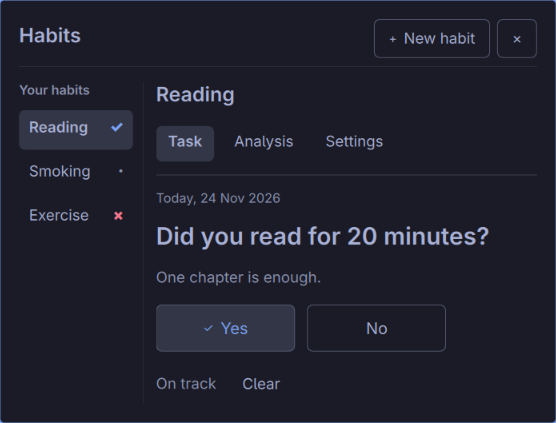
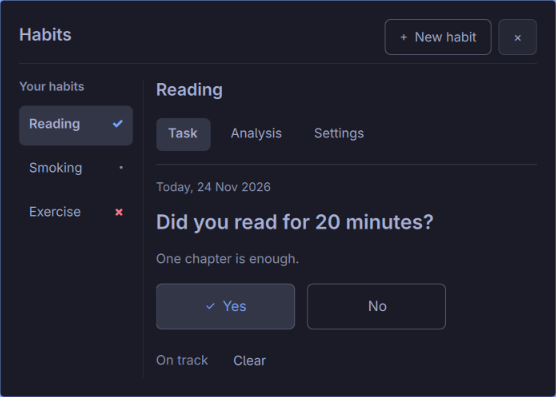
Reduce base popup text sizes

diff --git a/HabitPanel.qml b/HabitPanel.qml
@@ -52,11 +52,11 @@ Panel {
   // Keep the bar's monospace glyphs separate from the popup's prose and controls.
   readonly property string fontFamily: Qt.fontFamilies().indexOf("Adwaita Sans") >= 0 ? "Adwaita Sans" : "sans-serif"
   readonly property real typeScale: Math.max(1, Style.fontScale)
-  readonly property int secondarySize: typeSize(13)
-  readonly property int bodySize: typeSize(15)
-  readonly property int answerSize: typeSize(16)
-  readonly property int headingSize: typeSize(20)
-  readonly property int displaySize: typeSize(24)
+  readonly property int secondarySize: typeSize(12)
+  readonly property int bodySize: typeSize(13)
+  readonly property int answerSize: typeSize(14)
+  readonly property int headingSize: typeSize(17)
+  readonly property int displaySize: typeSize(20)
   readonly property var locale: Qt.locale(Commons.I18n.formatLocale)
 
   Commons.Translations {

diff --git a/docs/release.md b/docs/release.md
@@ -1,4 +1,8 @@
-# 1.3.2 — Compact typography
+# 1.3.3 — Smaller type
+
+Base text sizes are now 12 px for secondary labels, 13 px for body and navigation, 14 px for Yes/No, 17 px for headings, and 20 px for the question and key numbers. The typeface, popup width, and Yes/No hit areas are unchanged.
+
+## 1.3.2 — Compact typography
 
 The popup uses Adwaita Sans when installed, with a system sans-serif fallback. A shared scale covers 13 px supporting text, 15 px body and navigation, 16 px Yes/No, 20 px headings, and 24 px questions and key numbers. These are logical pixels and grow with larger Omarchy fonts. The compact popup width is unchanged.
 
